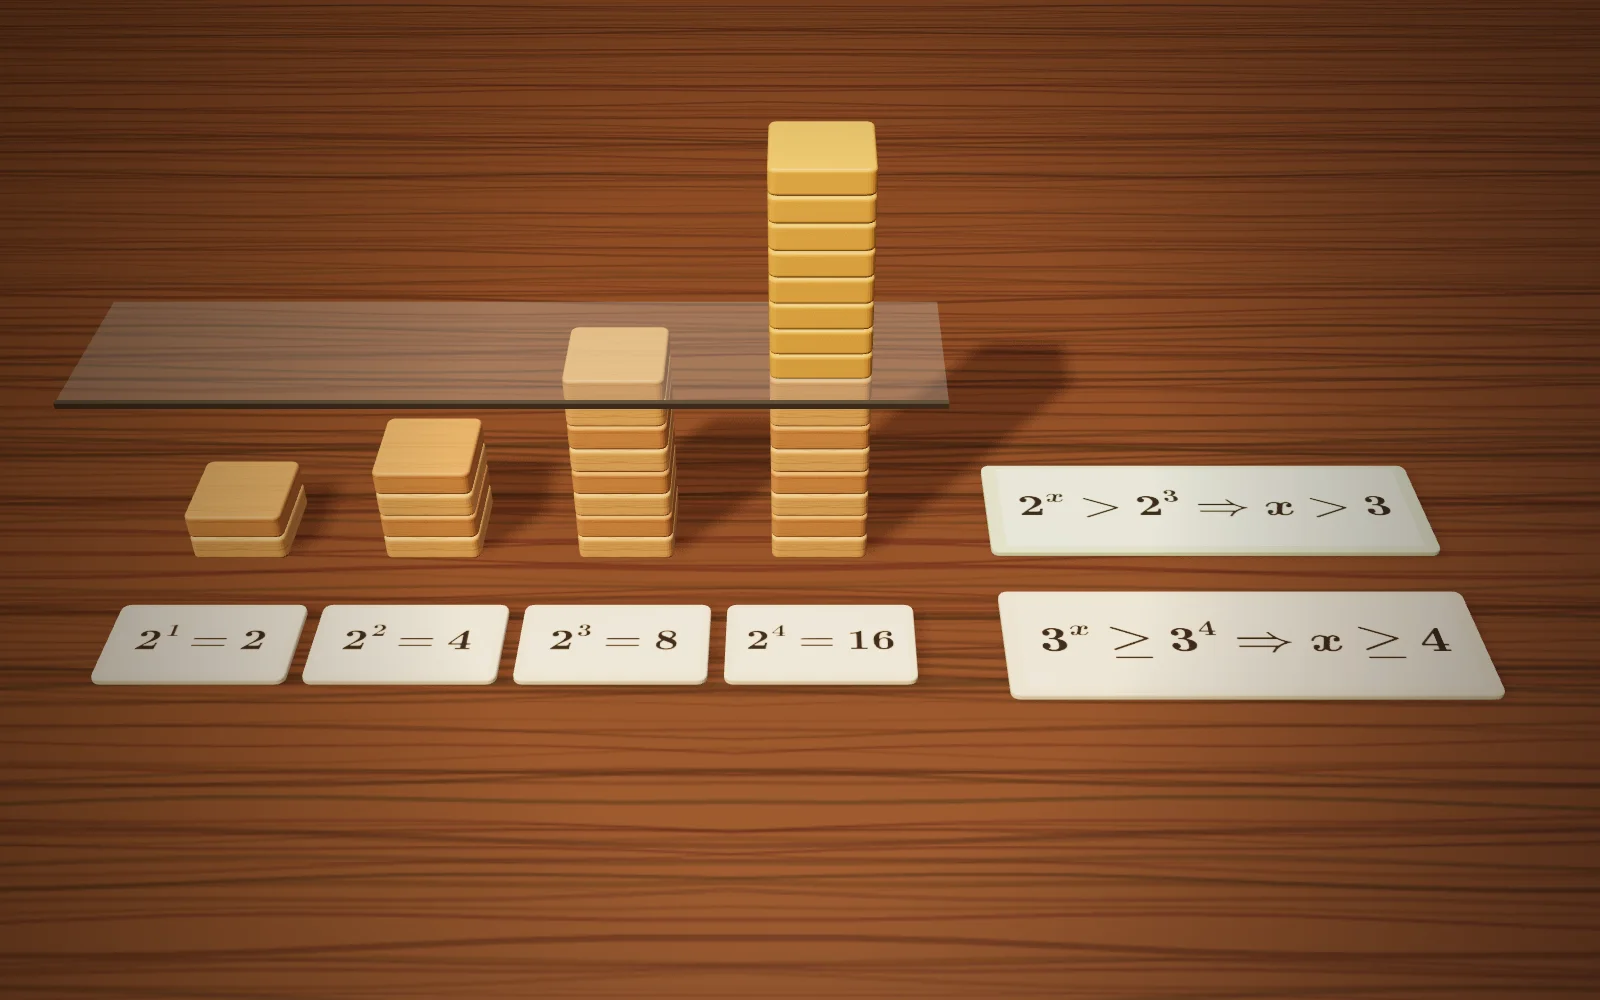
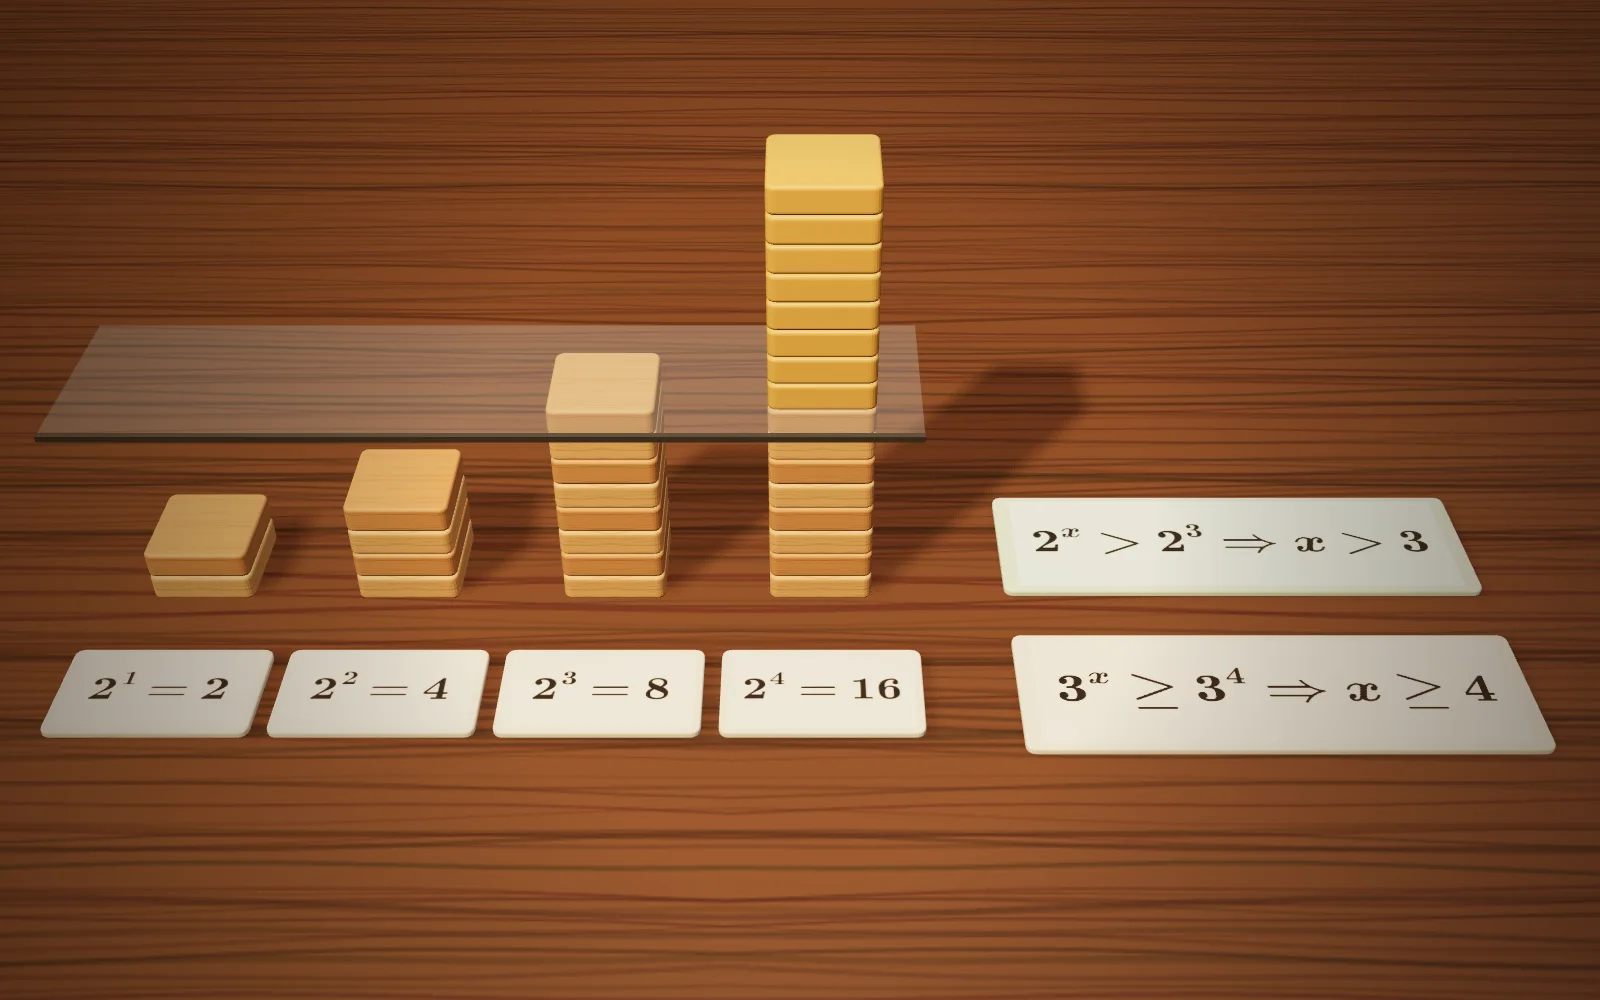
수의 마법 — 작업 중간 저장
Claude-Session: https://claude.ai/code/session_01T6HCktzZTCy63PeQAnPr61

diff --git a/number_magic/app/hero3d/scenes-c47.js b/number_magic/app/hero3d/scenes-c47.js
@@ -234,7 +234,7 @@ export const SCENES_C47 = {
      y=x³−3x² 모양의 레일(x −1.1 ~ 3.1) · 수레 · 꼭대기와 골짜기의 수평 막대, 앞에 식 카드 */
   'M-60': { seed:460, caps:{ P:10, list:[
     [0.0, "롤러코스터가 꼭대기에 닿는 순간 잠깐 수평이 됩니다 — 기울기가 $0$입니다.", "At the top, the coaster is level for an instant: the slope is $0$.", "过山车到达顶点的瞬间是水平的——斜率为$0$。"],
-    [0.24, "$f(x)=x^3-3x^2$이면 $f'(x)=3x^2-6x=3x(x-2)$이므로 $f'(x)=0$의 해는 $x=0,\;2$입니다.", "For $f(x)=x^3-3x^2$, $f'(x)=3x^2-6x=3x(x-2)$, so $f'(x)=0$ at $x=0,\;2$.", "$f(x)=x^3-3x^2$时，$f'(x)=3x^2-6x=3x(x-2)$，所以$f'(x)=0$的解是$x=0,\;2$。"],
+    [0.24, "$f(x)=x^3-3x^2$이면 $f'(x)=3x^2-6x=3x(x-2)$이므로 $f'(x)=0$의 해는 $x=0,\\;2$입니다.", "For $f(x)=x^3-3x^2$, $f'(x)=3x^2-6x=3x(x-2)$, so $f'(x)=0$ at $x=0,\\;2$.", "$f(x)=x^3-3x^2$时，$f'(x)=3x^2-6x=3x(x-2)$，所以$f'(x)=0$的解是$x=0,\\;2$。"],
     [0.42, "골짜기도 기울기가 $0$입니다. 높이는 $f(2)=8-12=-4$ — 극솟값 $-4$입니다.", "The valley is level too. Its height is $f(2)=8-12=-4$: the local minimum $-4$.", "谷底的斜率也是$0$。高度是$f(2)=8-12=-4$——极小值$-4$。"],
     [0.72, "꼭대기 높이는 $f(0)=0$ — 극댓값 $0$입니다.", "The top's height is $f(0)=0$: the local maximum $0$.", "顶点的高度是$f(0)=0$——极大值$0$。"]
   ]},

diff --git a/number_magic/app/hero3d/scenes-c46.js b/number_magic/app/hero3d/scenes-c46.js
@@ -284,8 +284,8 @@ export const SCENES_C46 = {
     });
     /* 유리판 — 높이 8 칸(2³) */
     const glassM = new THREE.MeshPhysicalMaterial({ color:'#cfe6f0', roughness:0.08, transmission:0.6, transparent:true, opacity:0.35, emissive:new THREE.Color('#9fd4ff'), emissiveIntensity:0 });
-    const glass = new THREE.Mesh(new THREE.BoxGeometry(4.2, 0.02, 0.9), glassM); glass.position.set(X0 + 1.5 * DX, 8 * H, Z0); scene.add(glass);
-    const edge = new THREE.Mesh(new THREE.BoxGeometry(4.2, 0.03, 0.03), k.metal('#b8b3a8', 0.3)); edge.position.set(X0 + 1.5 * DX, 8 * H, Z0 + 0.45); scene.add(edge);
+    const glass = new THREE.Mesh(new THREE.BoxGeometry(3.9, 0.02, 0.9), glassM); glass.position.set(X0 + 1.5 * DX, 8 * H, Z0); scene.add(glass);
+    const edge = new THREE.Mesh(new THREE.BoxGeometry(3.9, 0.03, 0.03), k.metal('#b8b3a8', 0.3)); edge.position.set(X0 + 1.5 * DX, 8 * H, Z0 + 0.45); scene.add(edge);
     /* 기둥 앞 카드 */
     const labs = [['2', { sup:'1' }, ' = 2'], ['2', { sup:'2' }, ' = 4'], ['2', { sup:'3' }, ' = 8'], ['2', { sup:'4' }, ' = 16']].map((t, i) =>
       mcard(k, t, X0 + i * DX, 0.75, { w:0.9, d:0.52, hmax:0.44, glow:true }));
